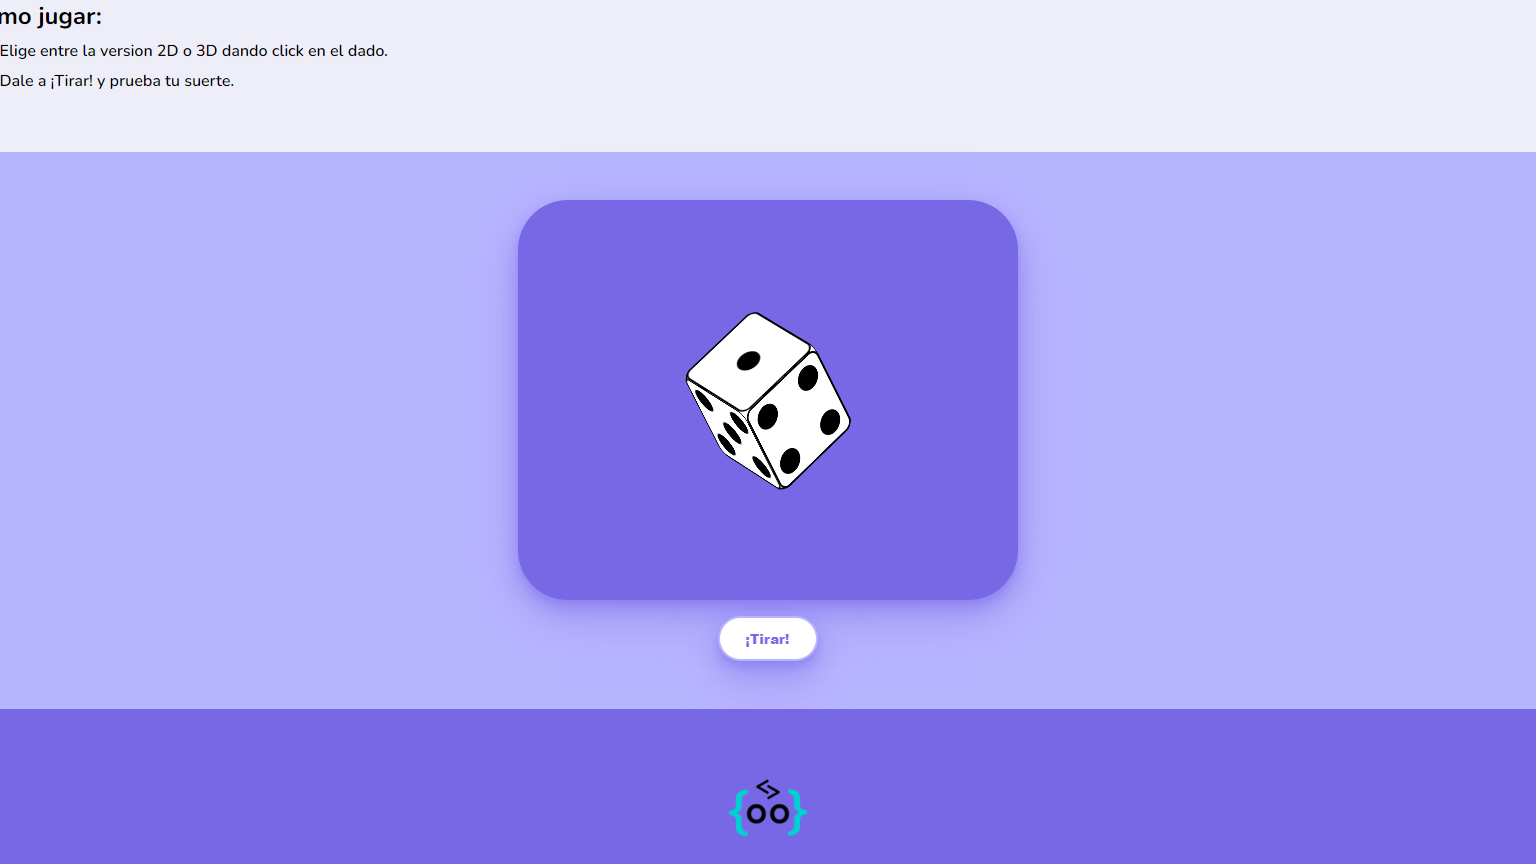
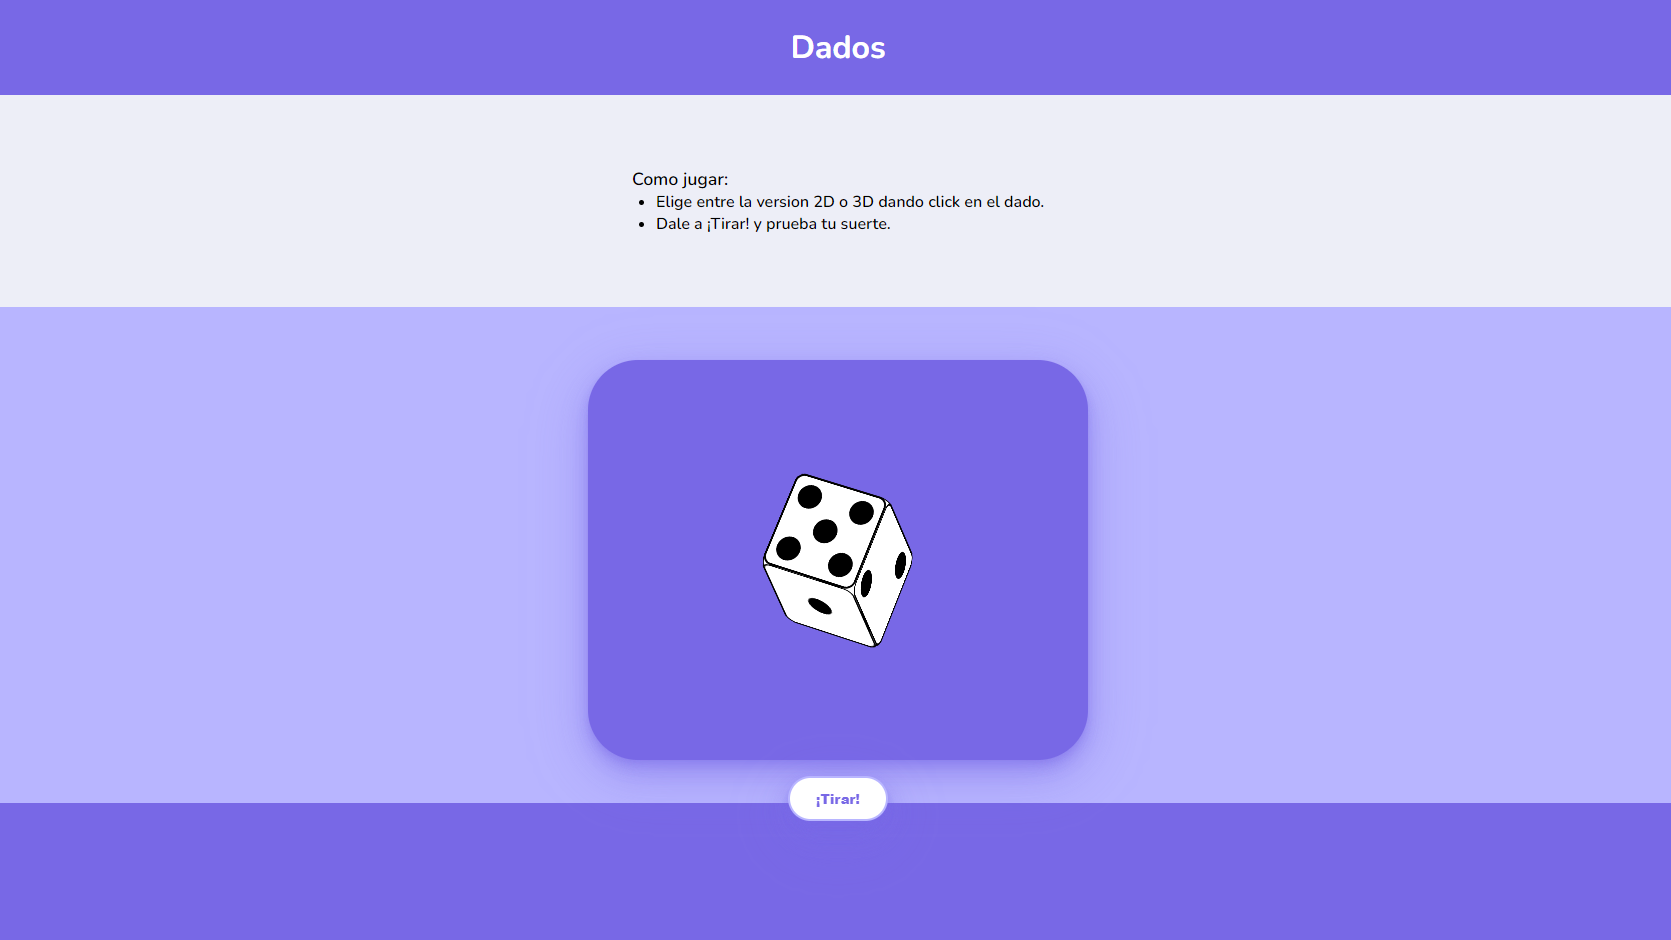
imagenes proyectos

diff --git a/assets/css/style.css b/assets/css/style.css
@@ -461,10 +461,7 @@ h6,
     box-shadow: 0px 0px 14px var(--cyant);
 }
 
-.content .cv:hover {
-    background-color: var(--primary);
-    scale: 1;
-}
+
 
 .content .cv:active {
     border: 1px solid var(--cyan);
@@ -490,7 +487,6 @@ h6,
 }
 
 
-
 /* CONFIGURACIÓN CARD DE PROYECTOS*/
 
 .card {
@@ -514,7 +510,7 @@ h6,
 }
 
 .card .card_img {
-    width: 150%;
+    width: 110%;
     fill: #333;
     transition: all 500ms cubic-bezier(0.175, 0.885, 0.32, 1.275);
 }

diff --git a/index.php b/index.php
@@ -190,7 +190,7 @@ if ($error == false) {
 
                     <!-- PROYECTOS -->
                     <div class="card ">
-                        <img class="card_img" src="assets/img/proyectos/Dado2.png" alt="Aplicación Dados">
+                        <img class="card_img" src="assets/img/proyectos/Dado.png" alt="Aplicación Dados">
                         <div class="card__content">
                             <h4 class="card__title">Cubo 2D/3D</h4>
                             <p class="card__description">Dado interactivo con versión en 2D y 3D. Uso de perspectiva y
@@ -216,7 +216,7 @@ if ($error == false) {
                     </div>
 
                     <div class="card ">
-                        <img class="card_img" src="assets/img/proyectos/flamencosevillaclass2.png" alt="Web flamencosevillaclass.es">
+                        <img class="card_img" src="assets/img/proyectos/fsc.png" alt="Web flamencosevillaclass.es">
                         <div class="card__content">
                             <h4 class="card__title">FlamencoSevillaClass</h4>
                             <p class="card__description">Web de reservas de cursos y eventos de flamenco realizado en
@@ -389,7 +389,9 @@ if ($error == false) {
             ?>
 
         </div>
+
         <a href="#home"><button class="btn-up "><i class="las la-angle-up"></i></i></button></a>
+
         <div class="cnt-arrow">
 
             <div class="tooltiptext">Scroll</div>
